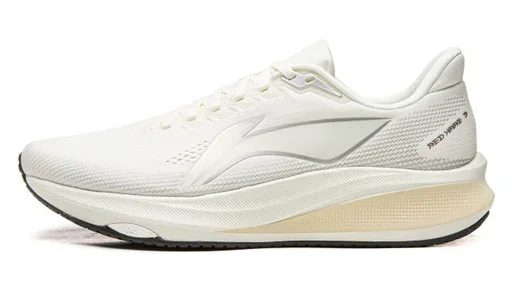
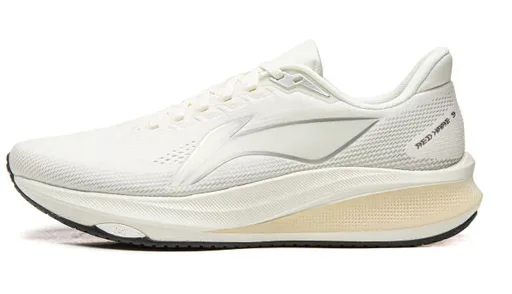
fix(images): balance shoe silhouettes and align comparison photos above wrapped names

diff --git a/scripts/shoe-thumbnails.ts b/scripts/shoe-thumbnails.ts
@@ -4,6 +4,39 @@ import sharp from 'sharp';
 import { shoes } from '../src/lib/data/shoes';
 import { thumbnailPath } from '../src/lib/shoe-thumbnail-path';
 
+// A high collar can center the bounding box while leaving most of the shoe below it.
+// Fill the silhouette between its upper and sole so white mesh counts as part of the shoe.
+async function studioOffset(trimmed: Buffer) {
+  const { data, info } = await sharp(trimmed)
+    .resize(120, 68, { fit: 'contain', background: '#fff' }).removeAlpha().raw().toBuffer({ resolveWithObject: true });
+  let area = 0;
+  let sumX = 0;
+  let sumY = 0;
+  for (let x = 0; x < info.width; x++) {
+    let top = info.height;
+    let bottom = -1;
+    for (let y = 0; y < info.height; y++) {
+      const i = (y * info.width + x) * info.channels;
+      if (Math.min(data[i], data[i + 1], data[i + 2]) >= 232) continue;
+      top = Math.min(top, y);
+      bottom = y;
+    }
+    const height = bottom - top + 1;
+    if (height < 2) continue;
+    area += height;
+    sumX += x * height;
+    sumY += (top + bottom) / 2 * height;
+  }
+  if (!area) return { x: 0, y: 0 };
+  const dx = (info.width - 1) / 2 - sumX / area;
+  const dy = (info.height - 1) / 2 - sumY / area;
+  // Only adjust a visible imbalance. Keep at least four pixels of the outer padding on every edge.
+  return {
+    x: Math.abs(dx) > info.width * 0.06 ? Math.max(-12, Math.min(12, Math.round(dx * 2))) : 0,
+    y: Math.abs(dy) > info.height * 0.11 ? Math.max(-8, Math.min(8, Math.round(dy * 2))) : 0,
+  };
+}
+
 async function generate() {
   const sources = Array.from(new Set(shoes.map(shoe => shoe.image)));
   const thumbnails: string[] = [];
@@ -51,8 +84,9 @@ async function generate() {
         }
       }
     }
+    const offset = uniform || sidesMatch ? await studioOffset(trimmed) : { x: 0, y: 0 };
     await sharp(trimmed).resize(480, 270, { fit: 'contain', background: '#fff' })
-      .extend({ top: 12, bottom: 12, left: 16, right: 16, background: '#fff' }).webp({ quality: 84 }).toFile(output);
+      .extend({ top: 12 + offset.y, bottom: 12 - offset.y, left: 16 + offset.x, right: 16 - offset.x, background: '#fff' }).webp({ quality: 84 }).toFile(output);
     thumbnails.push(source);
   }
   await writeFile('src/lib/data/shoe-thumbnails.json', JSON.stringify(thumbnails.sort(), null, 2) + '\n');

diff --git a/src/components/detail/image-slider.tsx b/src/components/detail/image-slider.tsx
@@ -5,12 +5,26 @@ import Image from 'next/image';
 import { ChevronLeft, ChevronRight, ShoppingBag } from 'lucide-react';
 import { cn } from '@/lib/utils';
 import { img } from '@/lib/image';
+import { shoeThumbnail } from '@/lib/shoe-thumbnail';
 
 type ImageSliderProps = {
   images?: string[];
   alt: string;
   autoPlayInterval?: number;
 };
+
+function GalleryPhoto({ image, alt, first }: { image: string; alt: string; first: boolean }) {
+  const original = img(image);
+  const mobile = first ? shoeThumbnail(image) : original;
+  return (
+    <picture>
+      {mobile !== original && <source media="(max-width: 639px)" srcSet={mobile} />}
+      <Image src={original} alt={alt} fill sizes="(max-width: 768px) 100vw, 50vw"
+        className="object-contain p-6 md:p-8" loading={first ? 'eager' : 'lazy'}
+        fetchPriority={first ? 'high' : undefined} />
+    </picture>
+  );
+}
 
 export function ImageSlider({ images, alt, autoPlayInterval = 3000 }: ImageSliderProps) {
   const [currentIndex, setCurrentIndex] = useState(0);
@@ -106,14 +120,7 @@ export function ImageSlider({ images, alt, autoPlayInterval = 3000 }: ImageSlide
   if (images.length === 1) {
     return (
       <div className="relative aspect-square overflow-hidden rounded-[2px] bg-[var(--surface-strong)]">
-        <Image
-          src={img(images[0])}
-          alt={alt}
-          fill
-          sizes="(max-width: 768px) 100vw, 50vw"
-          className="object-contain p-6 md:p-8"
-          priority
-        />
+        <GalleryPhoto image={images[0]} alt={alt} first />
       </div>
     );
   }
@@ -135,14 +142,7 @@ export function ImageSlider({ images, alt, autoPlayInterval = 3000 }: ImageSlide
       >
         {images.map((image, index) => (
           <div key={index} className="min-w-full h-full relative">
-            <Image
-              src={img(image)}
-              alt={`${alt} - ${index + 1}`}
-              fill
-              sizes="(max-width: 768px) 100vw, 50vw"
-              className="object-contain p-6 md:p-8"
-              priority={index === 0}
-            />
+            <GalleryPhoto image={image} alt={`${alt} - ${index + 1}`} first={index === 0} />
           </div>
         ))}
       </div>

diff --git a/src/components/home/resume-section.tsx b/src/components/home/resume-section.tsx
@@ -3,6 +3,7 @@
 import { useEffect, useState } from 'react';
 import Link from 'next/link';
 import Image from 'next/image';
+import { shoeThumbnail } from '@/lib/shoe-thumbnail';
 import { track } from '@/lib/analytics';
 import { readResume, clearResume, type ResumeData } from '@/lib/recent';
 import sectionStyles from './home-section.module.css';
@@ -90,7 +91,7 @@ export function ResumeSection({ validSlugs, questionCount }: ResumeSectionProps)
             >
               <span className={styles.thumb}>
                 {shoe.image && (
-                  <Image src={shoe.image} alt="" width={56} height={40} aria-hidden="true" />
+                  <Image src={shoeThumbnail(shoe.image)} alt="" width={56} height={40} aria-hidden="true" />
                 )}
               </span>
               <span>
@@ -114,7 +115,7 @@ export function ResumeSection({ validSlugs, questionCount }: ResumeSectionProps)
                   .slice(0, 2)
                   .map((s) =>
                     s.image ? (
-                      <Image key={s.slug} src={s.image} alt="" width={40} height={30} aria-hidden="true" />
+                      <Image key={s.slug} src={shoeThumbnail(s.image)} alt="" width={40} height={30} aria-hidden="true" />
                     ) : null,
                   )}
               </span>

diff --git a/src/components/home/problem-explorer.module.css b/src/components/home/problem-explorer.module.css
@@ -137,8 +137,9 @@
 }
 
 .thumbs {
-  display: flex;
-  align-items: flex-end;
+  display: grid;
+  grid-template-columns: repeat(3, minmax(0, 1fr));
+  align-items: start;
   gap: 26px;
   margin-top: auto;
   padding-top: 20px;
@@ -155,11 +156,12 @@
   gap: 8px;
 }
 .thumb img {
-  max-height: 100px;
-  width: auto;
+  width: min(100%, 120px);
+  height: 70px;
+  object-fit: contain;
   transition: transform 0.2s;
 }
-.thumb:hover img { transform: translateX(3px) rotate(-2deg); }
+.thumb:hover img { transform: scale(1.03); }
 /* 신발 이름은 한글이 섞이므로 본문 서체를 쓴다(스펙 §3 — mono 는 수치·라벨 전용) */
 .thumb span {
   font-size: 11px;
@@ -275,5 +277,5 @@
   .mid2 .c { min-height: 0; }
   /* 썸네일은 좁은 화면에서 간격을 줄인다 — 3개가 한 줄에 남아야 한다 */
   .thumbs { gap: 14px; min-height: 104px; }
-  .thumb img { max-height: 78px; }
+  .thumb img { height: 52px; }
 }

diff --git a/src/lib/home/problem-counts.ts b/src/lib/home/problem-counts.ts
@@ -1,4 +1,5 @@
 import { getMatrixBySlug, getMatrixShoes, BEST_PAGE_SHOE_LIMIT } from '@/lib/pseo/matrices';
+import { shoeThumbnail } from '@/lib/shoe-thumbnail';
 import { PROBLEMS } from './problems';
 
 /**
@@ -57,10 +58,7 @@ export function getProblemData(): ProblemData {
         .slice(0, LEAD_THUMB_COUNT)
         .map((s) => {
           const image = s.image as string;
-          const thumb = image.endsWith('/side.webp')
-            ? image.replace(/\/side\.webp$/, '/thumb.webp')
-            : image.replace(/\.webp$/, '-thumb.webp');
-          return { slug: s.slug, brand: s.brand, name: s.name, image, thumb };
+          return { slug: s.slug, brand: s.brand, name: s.name, image, thumb: shoeThumbnail(image) };
         });
     }
   }

diff --git a/src/components/home/shoe-index-preview.tsx b/src/components/home/shoe-index-preview.tsx
@@ -3,6 +3,7 @@
 import { useEffect, useMemo, useRef, useState } from 'react';
 import Link from 'next/link';
 import Image from 'next/image';
+import { shoeThumbnail } from '@/lib/shoe-thumbnail';
 import { track } from '@/lib/analytics';
 import { balancedByCategory } from '@/lib/home/index-sort';
 import type { GridShoe } from '@/lib/data/shoes';
@@ -74,7 +75,7 @@ function Row({
     >
       <span className={styles.rowTh}>
         {shoe.image ? (
-          <Image src={shoe.image} alt="" width={62} height={40} aria-hidden="true" />
+          <Image src={shoeThumbnail(shoe.image)} alt="" width={62} height={40} aria-hidden="true" />
         ) : (
           <span className={styles.rowMark} aria-hidden="true" />
         )}

diff --git a/src/components/compare/compare-content.tsx b/src/components/compare/compare-content.tsx
@@ -243,7 +243,7 @@ function ComparePageContent() {
             <thead><tr>
               <td className="w-14" />
               {selectedShoes.map(shoe => (
-                <th key={shoe.slug} scope="col" className="px-1 align-bottom">
+                <th key={shoe.slug} scope="col" className="px-1 align-top">
                   <div className="flex h-11 justify-end">
                     <button className="flex h-11 w-11 items-center justify-center" onClick={() => removeShoe(shoe.id || shoe.slug)} aria-label={`${shoe.name} 비교에서 삭제`}><X size={16} /></button>
                   </div>

diff --git a/src/components/home/shoe-index-preview.module.css b/src/components/home/shoe-index-preview.module.css
@@ -111,11 +111,12 @@
   justify-content: center;
 }
 .rowTh img {
-  max-height: 40px;
-  width: auto;
+  height: 40px;
+  width: 100%;
+  object-fit: contain;
   transition: transform 0.2s;
 }
-.row:hover .rowTh img { transform: translateX(3px) rotate(-2deg); }
+.row:hover .rowTh img { transform: scale(1.03); }
 /* 썸네일이 아직 없는 신발 — 중립 마크로 자리를 지킨다(행 높이가 들쭉날쭉해지지 않게) */
 .rowMark {
   width: 44px;

diff --git a/src/components/home/resume-section.module.css b/src/components/home/resume-section.module.css
@@ -97,9 +97,9 @@
   max-height: 40px;
   width: auto;
 }
-/* 비교 카드 — 두 켤레를 겹쳐 보여준다 */
+/* 두 장이 썸네일 칸을 벗어나지 않도록 같은 폭으로 나눈다. */
 .thumb.dbl { gap: 2px; }
-.thumb.dbl img { max-height: 30px; }
+.thumb.dbl img { width: calc((100% - 2px) / 2); height: 30px; object-fit: contain; }
 
 /* 추천 카드 — 이미지가 없으므로 문항 수를 수치로 세운다 */
 .badge {
